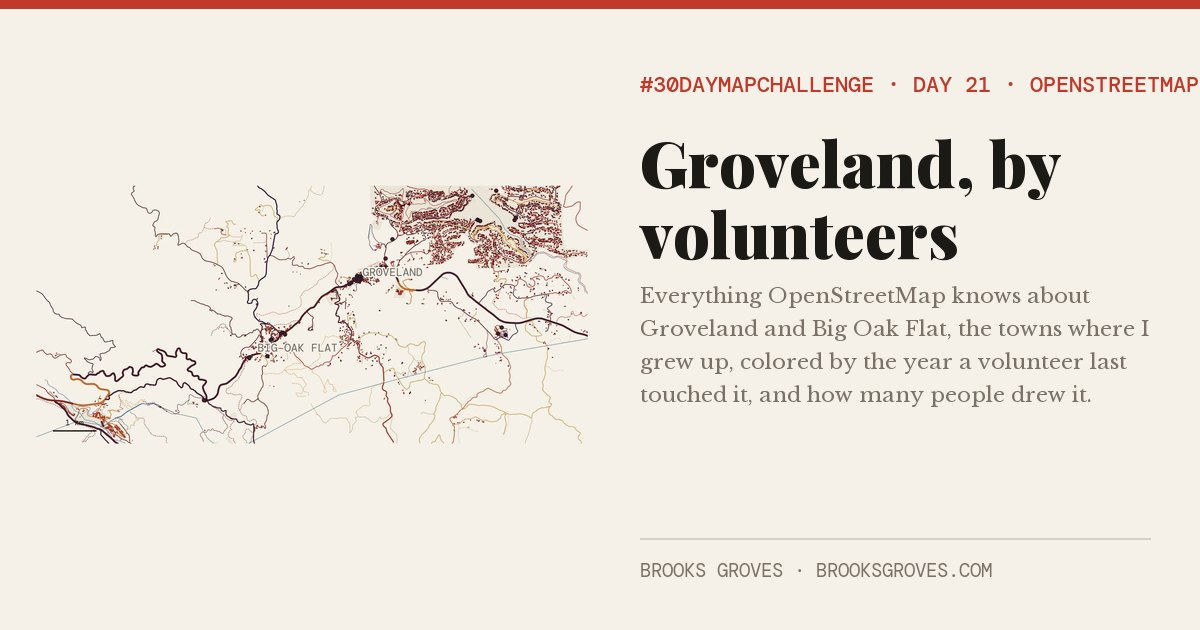
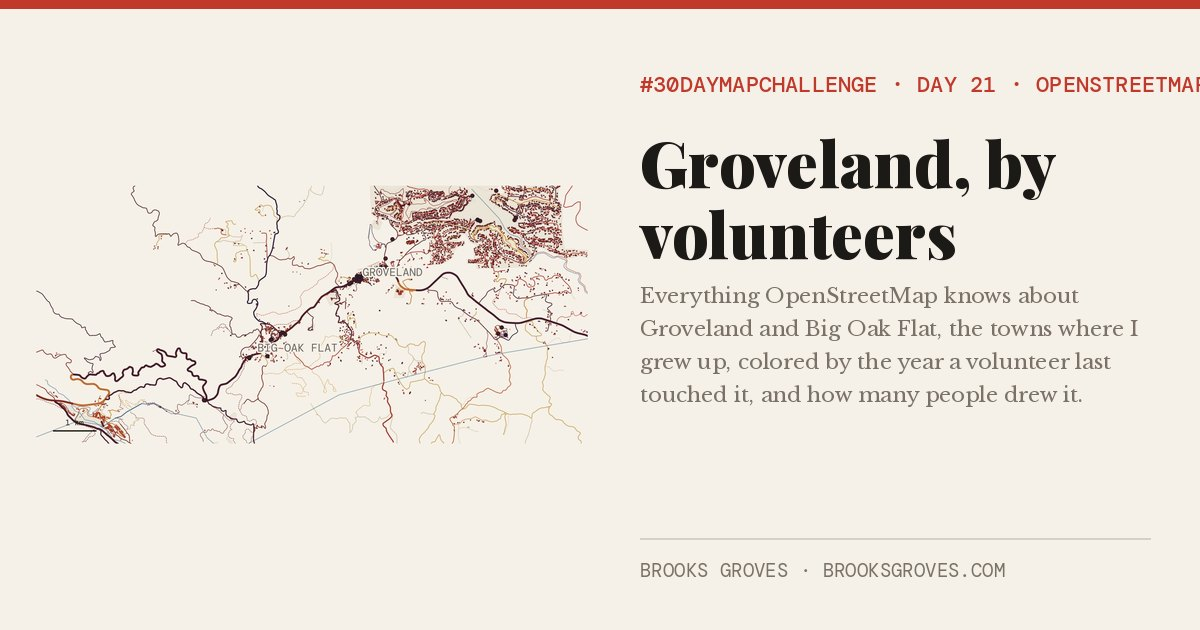
Day 21: scale bar on a paper backing; done
Claude-Session: https://claude.ai/code/session_01XT8v9DF68cFLbibUaHUWWu

diff --git a/2026/day-21-openstreetmap/make.py b/2026/day-21-openstreetmap/make.py
@@ -127,7 +127,11 @@ taken = []
 towns = [(*gpd.GeoSeries([Point(lon, lat)], crs=4326).to_crs(CRS).iloc[0].coords[0], nm)
          for nm, lon, lat in [("GROVELAND", -120.2305, 37.8395), ("BIG OAK FLAT", -120.2585, 37.8245)]]
 dmc.place_labels(ax, towns, gap=0, taken=taken, size=10, family=dmc.MONO, color="#6b6560", halo=dmc.PARCHMENT, zorder=7)
+ax.add_patch(__import__("matplotlib").patches.Rectangle((0.012, 0.015), 0.105, 0.11, transform=ax.transAxes,
+                                                       color=dmc.PARCHMENT, alpha=0.92, zorder=8))
 dmc.scalebar(ax, 1, loc=(0.03, 0.05))
+ax.lines[-1].set_zorder(9)
+ax.texts[-1].set_zorder(9)
 
 # panel: the color key as a bar chart of features by the year they were last edited
 px = 0.70

diff --git a/2026/README.md b/2026/README.md
@@ -43,7 +43,7 @@ Mapbox basemaps go where streets, towns and water give the data its context: Lig
 - Before posting: **21** (re-render after your OSM evening).
 
 <!-- table:start -->
-**27 of 30 done** · 💡 idea 2 · 📦 data in hand 0 · ✏ draft 1 · ✅ done 27 · 📣 posted 0
+**28 of 30 done** · 💡 idea 2 · 📦 data in hand 0 · ✏ draft 0 · ✅ done 28 · 📣 posted 0
 
 | Day | Date | Theme | Map | Status |
 |---:|---|---|---|---|
@@ -67,7 +67,7 @@ Mapbox basemaps go where streets, towns and water give the data its context: Lig
 | 18 | Wed Nov 18 | NULL | [Nobody lives here](day-18-null/) | ✅ done |
 | 19 | Thu Nov 19 | Smell | [What the Yakima Valley smells like](day-19-smell/) | ✅ done |
 | 20 | Fri Nov 20 | Hexagons | [Kangaroo rats in hexagons](day-20-hexagons/) | ✅ done |
-| 21 | Sat Nov 21 | OpenStreetMap | [Groveland, by volunteers](day-21-openstreetmap/) | ✏ draft |
+| 21 | Sat Nov 21 | OpenStreetMap | [Groveland, by volunteers](day-21-openstreetmap/) | ✅ done |
 | 22 | Sun Nov 22 | Projections | [The world from Groveland](day-22-projections/) | ✅ done |
 | 23 | Mon Nov 23 | Taste | [Every brewery I've checked into](day-23-taste/) | ✅ done |
 | 24 | Tue Nov 24 | Network | [Every stream that reaches Modesto](day-24-network/) | ✅ done |

diff --git a/2026/day-21-openstreetmap/README.md b/2026/day-21-openstreetmap/README.md
@@ -1,7 +1,7 @@
 <!-- plan:start (generated from days.yml; edit there) -->
 # Day 21 · OpenStreetMap
 
-**Saturday, November 21, 2026** · status: ✏ draft
+**Saturday, November 21, 2026** · status: ✅ done
 
 ## Groveland, by volunteers
 
